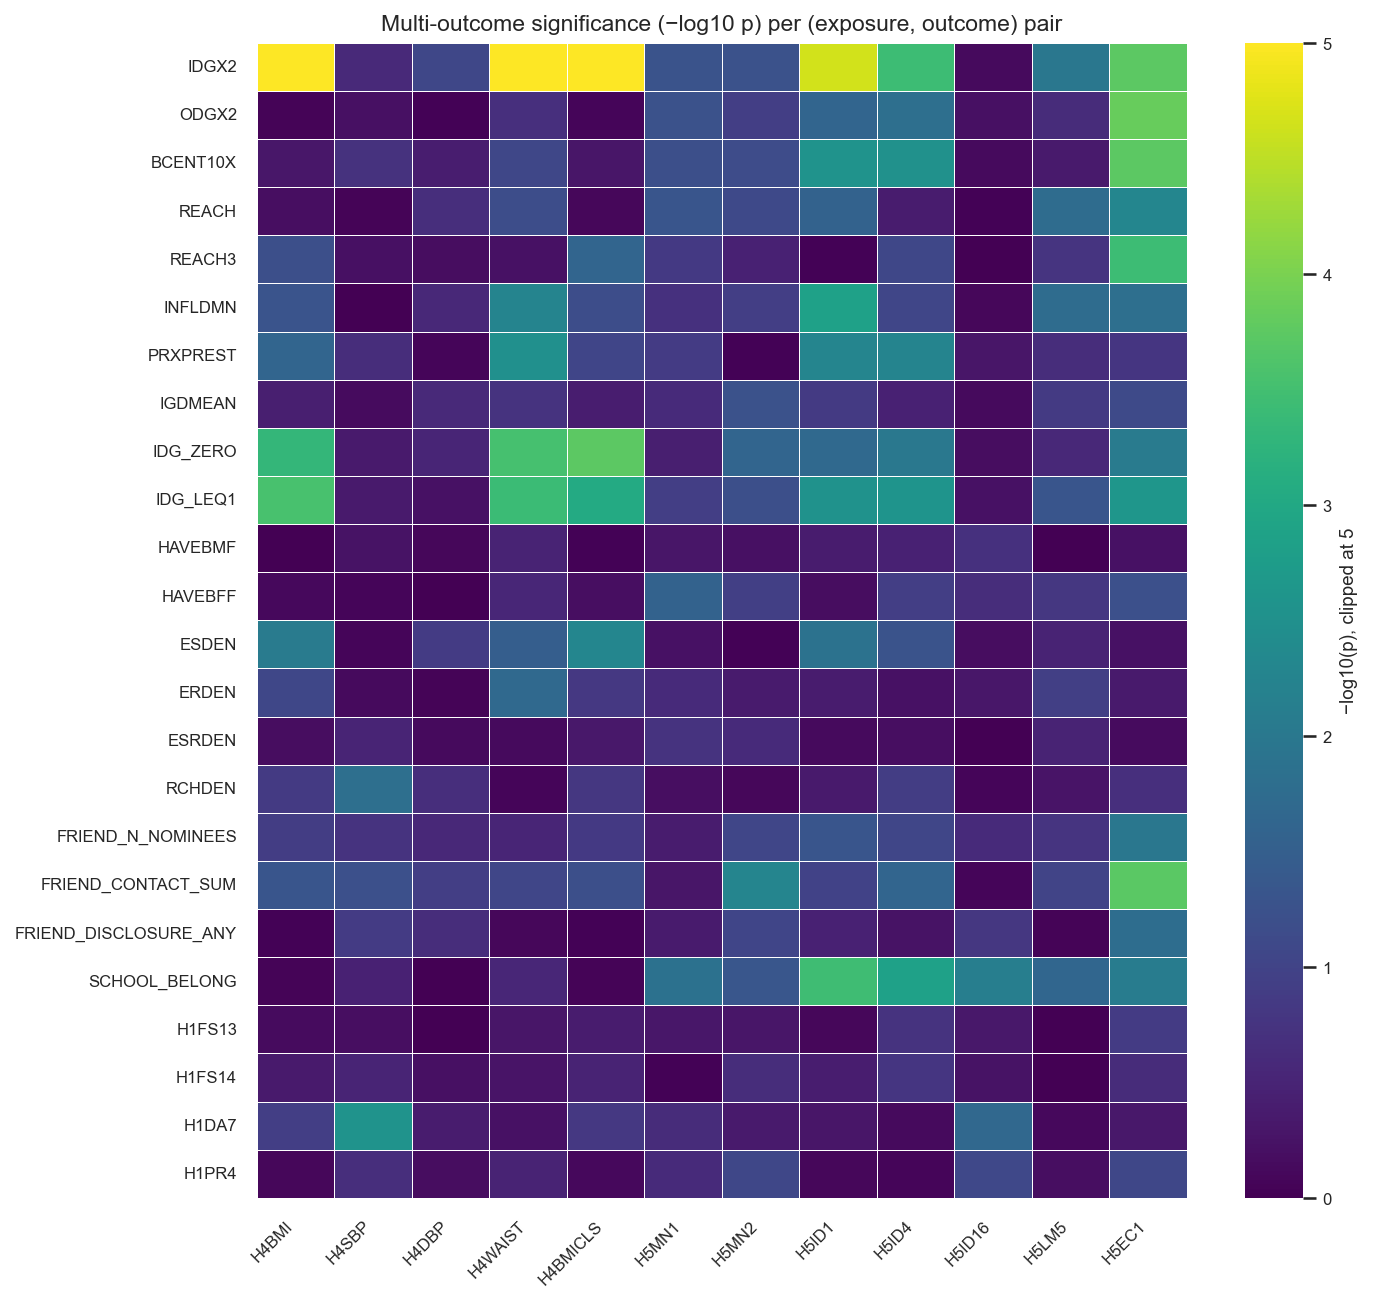
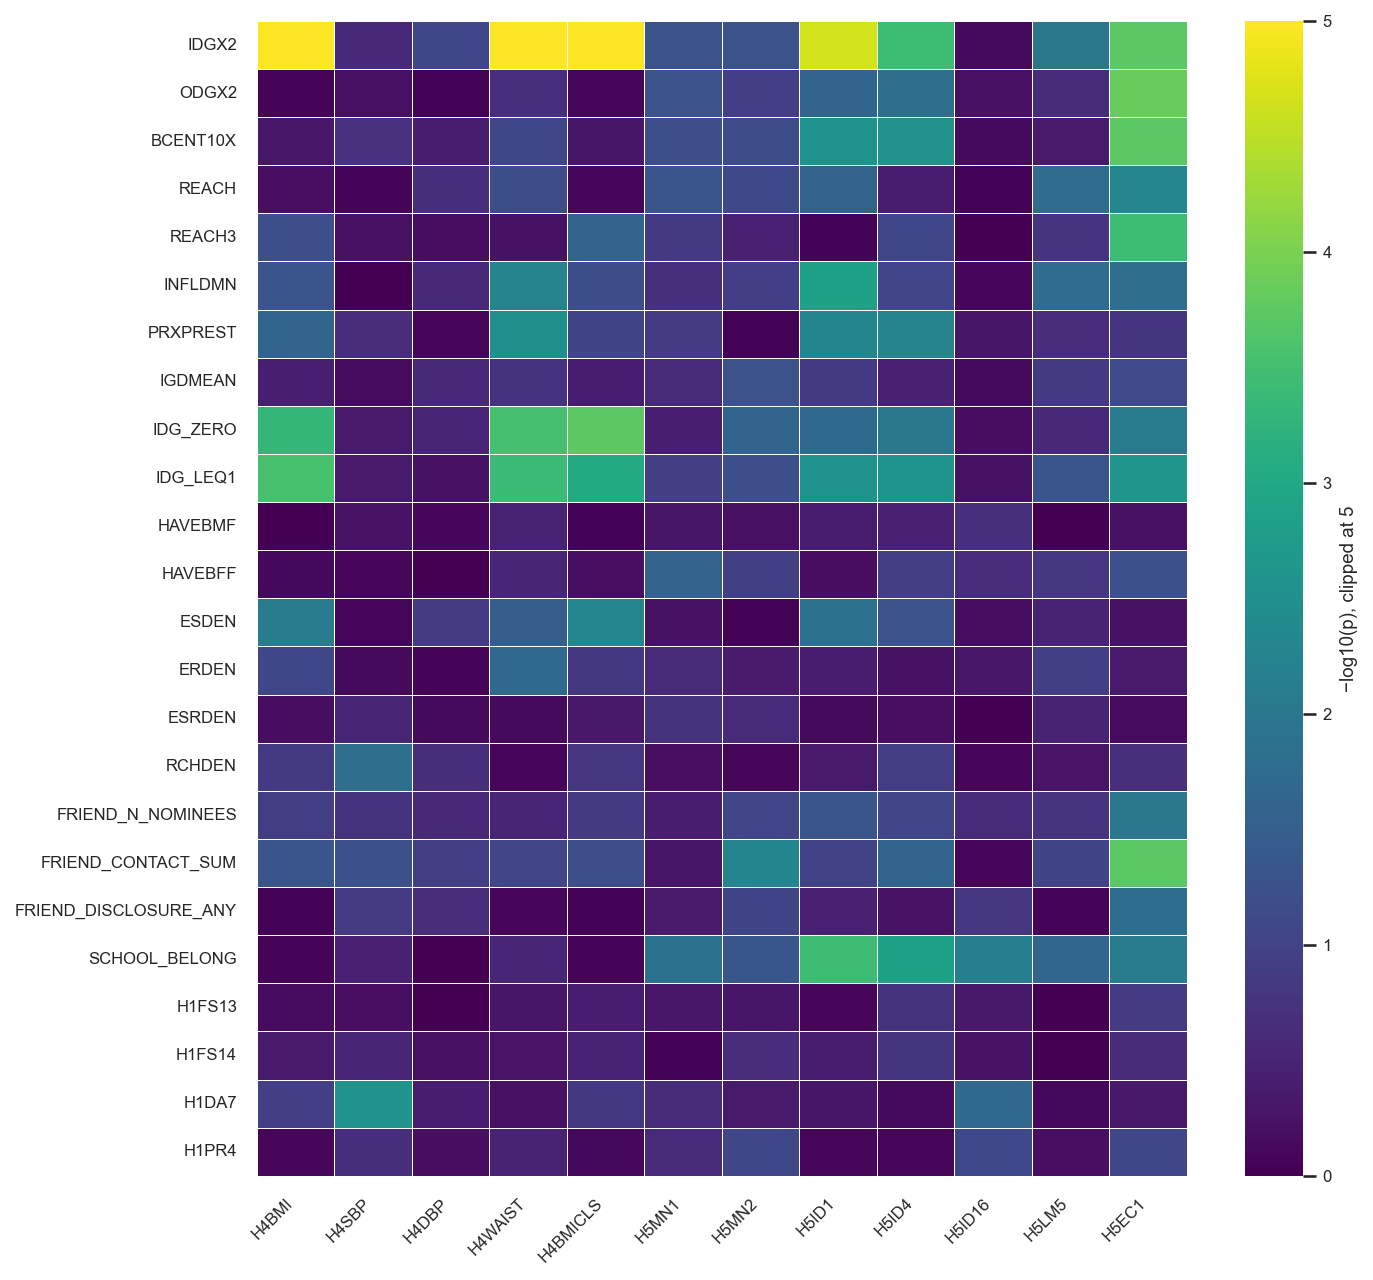
Add CITATION.cff and TODO.md, refresh references and scripts
Snapshot of in-progress work before merging origin/main. Adds project
citation metadata and a structured TODO backlog; small touch-ups across
analysis scripts; computes the saturation fraction in task14 from data
rather than a hardcoded 0.324; fills in missing entries in the variable
dictionary; minor synthesis/journal edits.

diff --git a/scripts/task14_causal_screening.py b/scripts/task14_causal_screening.py
@@ -49,6 +49,19 @@ IMG.mkdir(parents=True, exist_ok=True)
 W4 = pd.read_parquet(CACHE / "analytic_w4.parquet")
 W1_FULL = pd.read_parquet(CACHE / "analytic_w1_full.parquet")
 
+# D8 saturated-school selection fraction. Computed once at import: the share of
+# W1 in-home respondents whose school was NOT in the network-saturated frame
+# (so their network metrics are missing). Driven entirely by data: a respondent
+# is in the network frame iff they have a finite IDGX2 in w1network.parquet.
+_w1net_for_d8 = pd.read_parquet(CACHE / "w1network.parquet", columns=["AID", "IDGX2"])
+_w1home_for_d8 = pd.read_parquet(CACHE / "w1inhome.parquet", columns=["AID"])
+_n_inhome = len(_w1home_for_d8)
+_n_network = int(pd.to_numeric(_w1net_for_d8["IDGX2"], errors="coerce").notna().sum())
+SATURATED_LOSS_FRAC: float = (
+    1.0 - _n_network / _n_inhome if _n_inhome > 0 else float("nan")
+)
+del _w1net_for_d8, _w1home_for_d8, _n_inhome, _n_network
+
 # Attach H1PR4 from raw W1 in-home (not in cache frame).
 _w1raw = pd.read_parquet(CACHE / "w1inhome.parquet")[["AID", "H1PR4"]]
 _w1raw["H1PR4"] = pd.to_numeric(_w1raw["H1PR4"], errors="coerce").where(
@@ -414,7 +427,7 @@ def d7_overlap(df: pd.DataFrame, col: str, kind: str) -> dict:
 
 
 def d8_saturation(requires_sat: bool) -> dict:
-    frac = 0.324 if requires_sat else 0.0
+    frac = SATURATED_LOSS_FRAC if requires_sat else 0.0
     return {"saturated_loss_frac": frac, "flag": bool(requires_sat and frac > 0.25)}
 
 

diff --git a/scripts/analysis_utils.py b/scripts/analysis_utils.py
@@ -20,7 +20,7 @@ from typing import Dict, List, Optional, Tuple
 import numpy as np
 import pandas as pd
 
-ROOT = Path("/Users/jb/Desktop/Inter-Generational-Causal-Analysis-of-the-AddHealth-Dataset")
+ROOT = Path(__file__).resolve().parent.parent
 DATA = ROOT / "data"
 CACHE = ROOT / "outputs" / "cache"
 
@@ -312,8 +312,8 @@ def derive_school_belonging(df: pd.DataFrame) -> pd.Series:
     """
     cols = ["H1ED19", "H1ED20", "H1ED22", "H1ED23", "H1ED24"]
     vals = pd.DataFrame({c: 6 - clean_var(df[c], c) for c in cols})  # reverse
-    vals["H1ED21_rev"] = clean_var(df["H1ED21"], "H1ED21")  # higher prejudice = stays
-    # Flip prejudice so it adds in the same direction (less prejudice -> more belonging)
+    # H1ED21 reversed: higher raw = more prejudice -> invert so all items point with belonging.
+    vals["H1ED21_rev"] = clean_var(df["H1ED21"], "H1ED21")
     vals["H1ED21_rev"] = 6 - vals["H1ED21_rev"]
     return vals.sum(axis=1, min_count=6)
 

diff --git a/scripts/plot_style.py b/scripts/plot_style.py
@@ -7,8 +7,22 @@ import seaborn as sns
 import numpy as np
 import pandas as pd
 
-ROOT = Path("/Users/jb/Desktop/Inter-Generational-Causal-Analysis-of-the-AddHealth-Dataset")
+ROOT = Path(__file__).resolve().parent.parent
 IMG = ROOT / "img"
+
+
+# Canonical per-outcome-group palette. Single source of truth for any chart
+# that wants to colour by `outcome_group` (cognitive / cardiometabolic /
+# mental_health / functional / ses). Imported by task15_journal_figs and
+# task15_multi_outcome so future per-group colouring stays coherent across
+# the report.
+GROUP_COLORS = {
+    "cognitive":        "#4c72b0",
+    "cardiometabolic":  "#c44e52",
+    "mental_health":    "#8172b2",
+    "functional":       "#55a868",
+    "ses":              "#dd8452",
+}
 
 
 def setup() -> None:

diff --git a/scripts/task15_multi_outcome.py b/scripts/task15_multi_outcome.py
@@ -35,6 +35,7 @@ from analysis_utils import (  # noqa: E402
     ROOT, CACHE, clean_var, weighted_ols, load_outcome,
 )
 import plot_style  # noqa: E402
+from plot_style import GROUP_COLORS  # noqa: E402,F401  (canonical palette)
 import task14_causal_screening as t14  # noqa: E402
 
 OUT = ROOT / "outputs"
@@ -203,7 +204,6 @@ def plot_heatmaps(mat: pd.DataFrame) -> None:
         ax=ax, cbar_kws={"label": "−log10(p), clipped at 5"},
         linewidths=0.4, linecolor="white",
     )
-    ax.set_title("Multi-outcome significance (−log10 p) per (exposure, outcome) pair")
     ax.set_xlabel("")
     ax.set_ylabel("")
     plt.setp(ax.get_xticklabels(), rotation=45, ha="right")

diff --git a/scripts/task15_journal_figs.py b/scripts/task15_journal_figs.py
@@ -23,6 +23,7 @@ HERE = Path(__file__).parent
 sys.path.insert(0, str(HERE))
 
 import plot_style
+from plot_style import GROUP_COLORS
 from analysis_utils import ROOT
 
 plot_style.setup()
@@ -30,15 +31,6 @@ plot_style.setup()
 OUT = ROOT / "outputs"
 IMG = ROOT / "img" / "causal"
 IMG.mkdir(parents=True, exist_ok=True)
-
-
-GROUP_COLORS = {
-    "cognitive":        "#4c72b0",
-    "cardiometabolic":  "#c44e52",
-    "mental_health":    "#8172b2",
-    "functional":       "#55a868",
-    "ses":              "#dd8452",
-}
 
 
 def per_outcome_pcount() -> None:

diff --git a/scripts/task12_regression_plots.py b/scripts/task12_regression_plots.py
@@ -34,7 +34,7 @@ def load_analytic_w4() -> pd.DataFrame:
 def load_analytic_w1_full() -> pd.DataFrame:
     return pd.read_parquet(ROOT / "outputs" / "cache" / "analytic_w1_full.parquet")
 
-ROOT = Path("/Users/jb/Desktop/Inter-Generational-Causal-Analysis-of-the-AddHealth-Dataset")
+ROOT = Path(__file__).resolve().parent.parent
 OUT = ROOT / "outputs"
 IMG_REG = ROOT / "img" / "regressions"
 IMG_SENS = ROOT / "img" / "sensitivity"

diff --git a/scripts/task03de_wave5_cognitive.py b/scripts/task03de_wave5_cognitive.py
@@ -16,7 +16,7 @@ import numpy as np
 import pandas as pd
 import pyreadstat
 
-ROOT = Path("/Users/jb/Desktop/Inter-Generational-Causal-Analysis-of-the-AddHealth-Dataset")
+ROOT = Path(__file__).resolve().parent.parent
 DATA = ROOT / "data" / "W5" / "pwave5.xpt"
 OUT = ROOT / "outputs" / "03de_wave5_cognitive_and_mode.md"
 

diff --git a/scripts/task03c_wave4_cognitive.py b/scripts/task03c_wave4_cognitive.py
@@ -25,7 +25,7 @@ import numpy as np
 import pandas as pd
 import pyreadstat
 
-ROOT = Path("/Users/jb/Desktop/Inter-Generational-Causal-Analysis-of-the-AddHealth-Dataset")
+ROOT = Path(__file__).resolve().parent.parent
 W4_IN = ROOT / "data" / "W4" / "w4inhome.sas7bdat"
 OUT = ROOT / "outputs"
 OUT.mkdir(exist_ok=True)

diff --git a/scripts/task06_attrition.py b/scripts/task06_attrition.py
@@ -26,9 +26,7 @@ import numpy as np
 import pandas as pd
 import pyreadstat
 
-ROOT = Path(
-    "/Users/jb/Desktop/Inter-Generational-Causal-Analysis-of-the-AddHealth-Dataset"
-)
+ROOT = Path(__file__).resolve().parent.parent
 DATA = ROOT / "data"
 OUT = ROOT / "outputs"
 CACHE_AIDS = OUT / "cache" / "aids"

diff --git a/scripts/task03ab_wave1_friendship_and_network.py b/scripts/task03ab_wave1_friendship_and_network.py
@@ -25,9 +25,7 @@ from pathlib import Path
 import pandas as pd
 import pyreadstat
 
-ROOT = Path(
-    "/Users/jb/Desktop/Inter-Generational-Causal-Analysis-of-the-AddHealth-Dataset"
-)
+ROOT = Path(__file__).resolve().parent.parent
 DATA = ROOT / "data" / "W1"
 OUT = ROOT / "outputs"
 CACHE = OUT / "cache"

diff --git a/scripts/task03fgh_wave3_pvt_bem_weights.py b/scripts/task03fgh_wave3_pvt_bem_weights.py
@@ -11,7 +11,7 @@ import numpy as np
 import pandas as pd
 import pyreadstat
 
-ROOT = Path("/Users/jb/Desktop/Inter-Generational-Causal-Analysis-of-the-AddHealth-Dataset")
+ROOT = Path(__file__).resolve().parent.parent
 DATA = ROOT / "data"
 OUT = ROOT / "outputs"
 OUT.mkdir(parents=True, exist_ok=True)

diff --git a/scripts/task02_aid_overlap.py b/scripts/task02_aid_overlap.py
@@ -14,7 +14,7 @@ from pathlib import Path
 import pandas as pd
 import pyreadstat
 
-ROOT = Path("/Users/jb/Desktop/Inter-Generational-Causal-Analysis-of-the-AddHealth-Dataset")
+ROOT = Path(__file__).resolve().parent.parent
 DATA = ROOT / "data"
 OUT = ROOT / "outputs"
 CACHE = OUT / "cache" / "aids"
